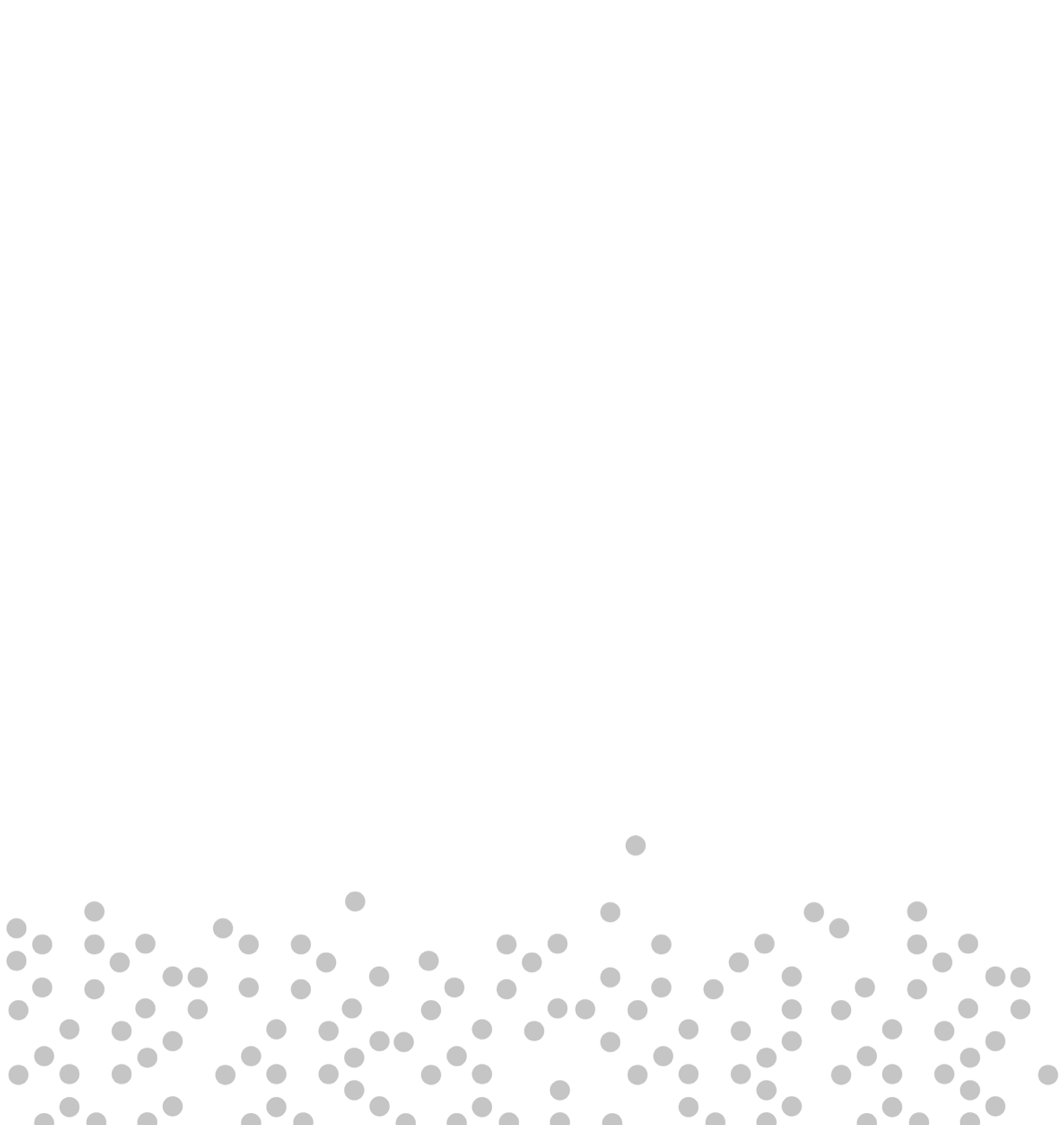
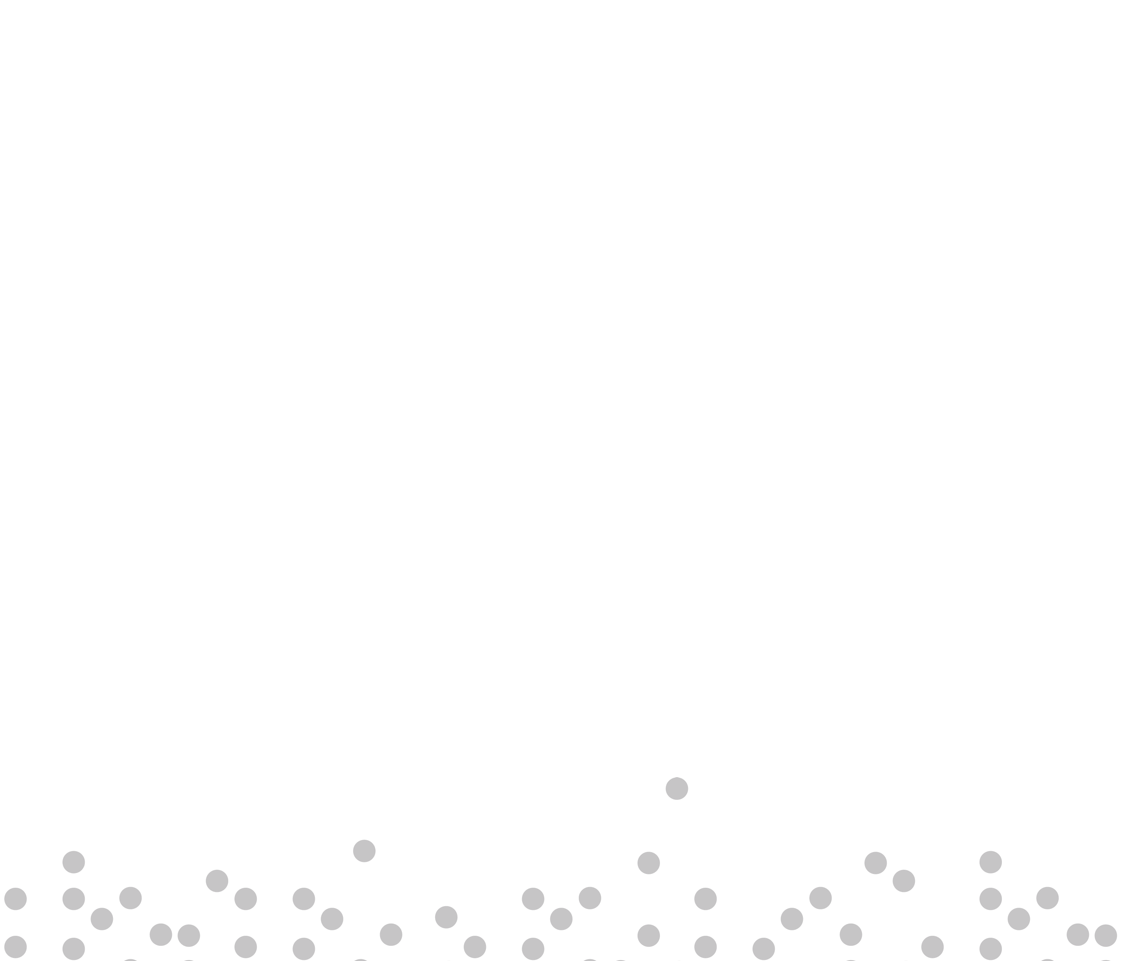
background tweaks

diff --git a/www/custom.css b/www/custom.css
@@ -35,12 +35,14 @@ input[type="password"] {font-size: 20px;}
 .right-side {
 	background-color: #ffffff;
 	background-image: url("background.png");
-	background-position: center bottom;
+	background-position: absolute;
+	height: 100%;
 	background-repeat: repeat-x;
 }
 
+
 /* Edit fonts for MM brand */
-body{font-family: 'Poppins'; font-size: 20px;}
+body{font-family: 'Poppins'; font-size: 18px;}
 h3{font-family: 'Poppins'; font-size: 15px;}
 h4{font-family: 'Poppins'; font-size: 25px;}
 h5{font-family: 'Poppins'; font-size: 35px;}
@@ -48,7 +50,7 @@ h5{font-family: 'Poppins'; font-size: 35px;}
 /* Format list spacing */
 li{margin-bottom: 10px;
    font-family: 'Poppins';
-   font-size: 20px;
+   font-size: 18px;
 }
 
 /* Specify color of selected tab */
